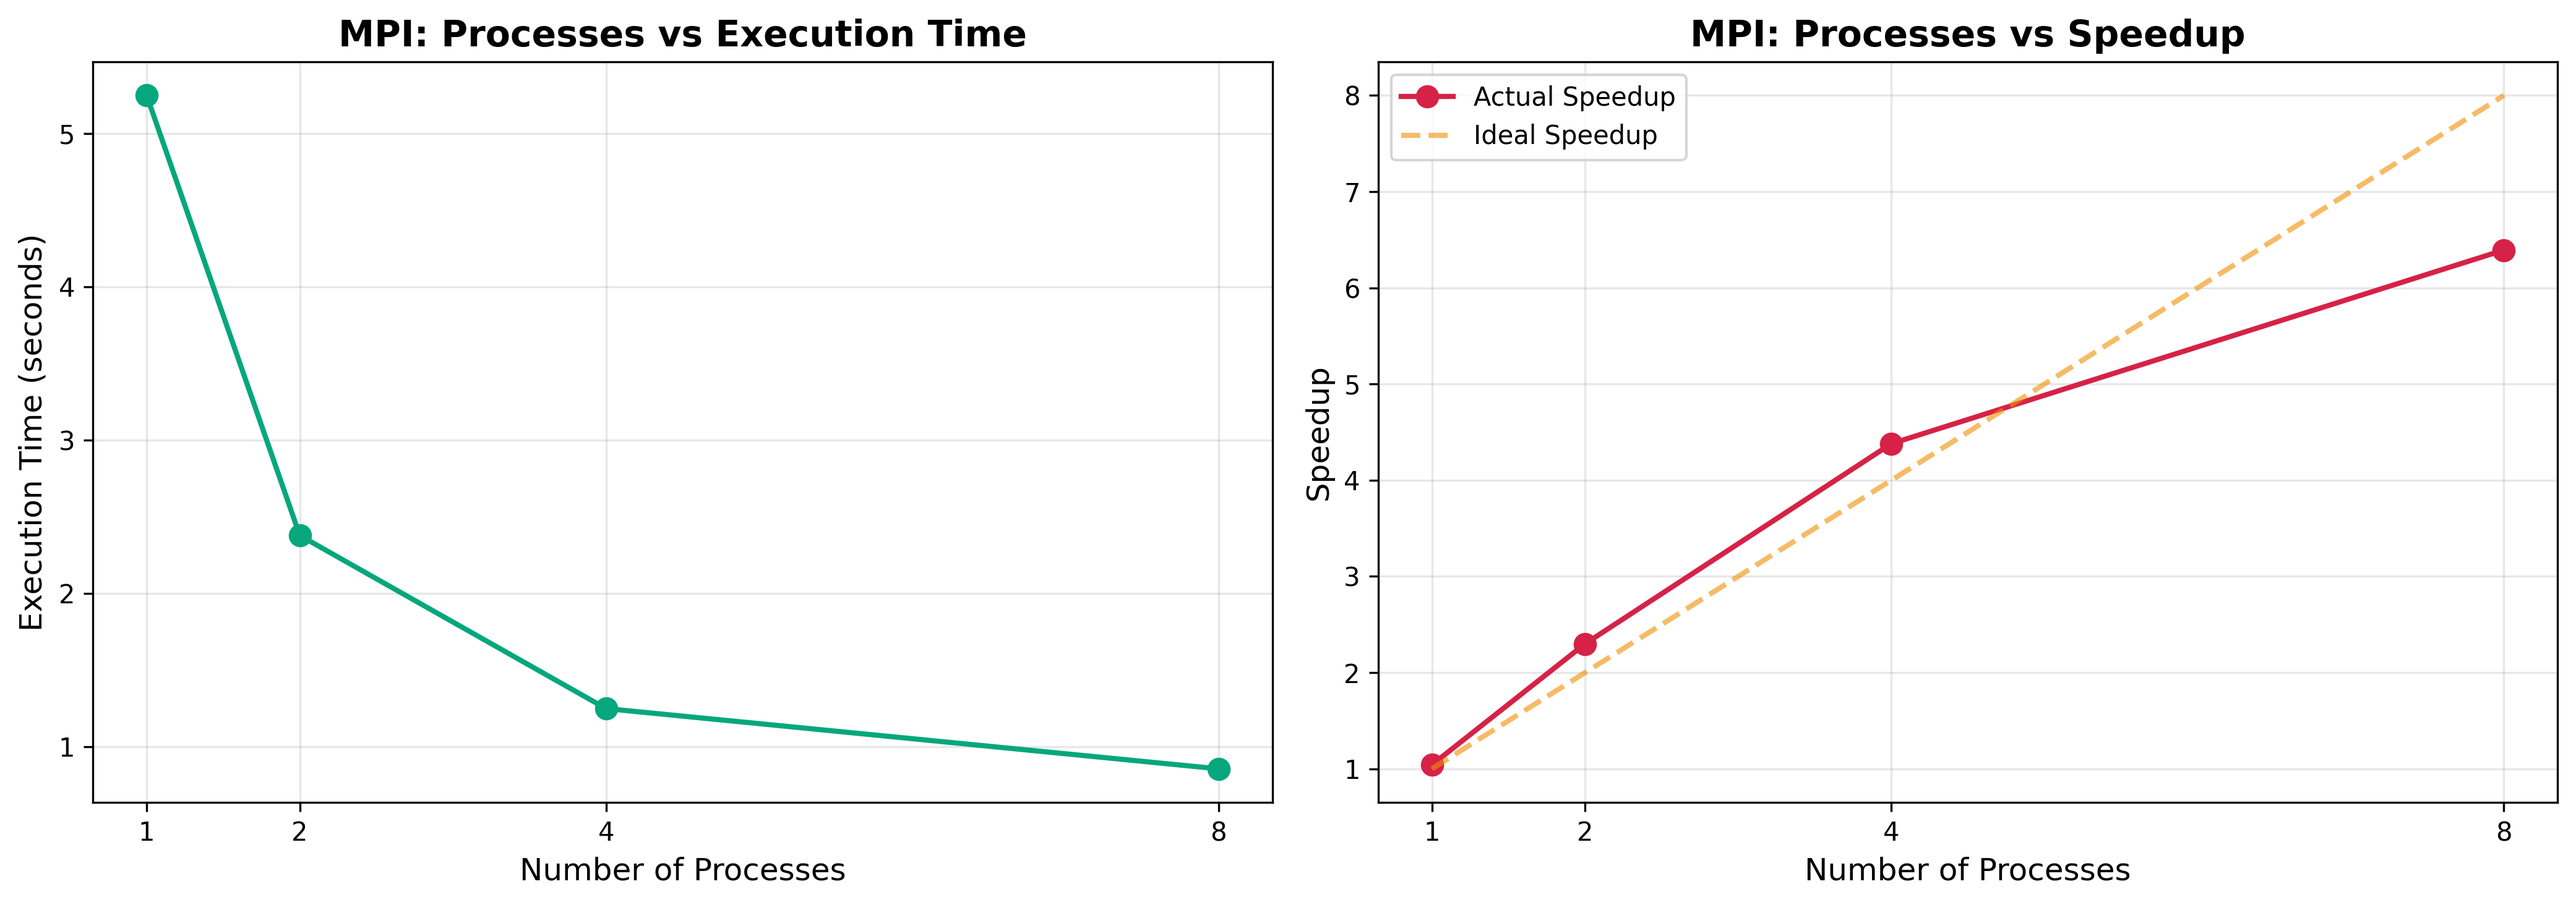
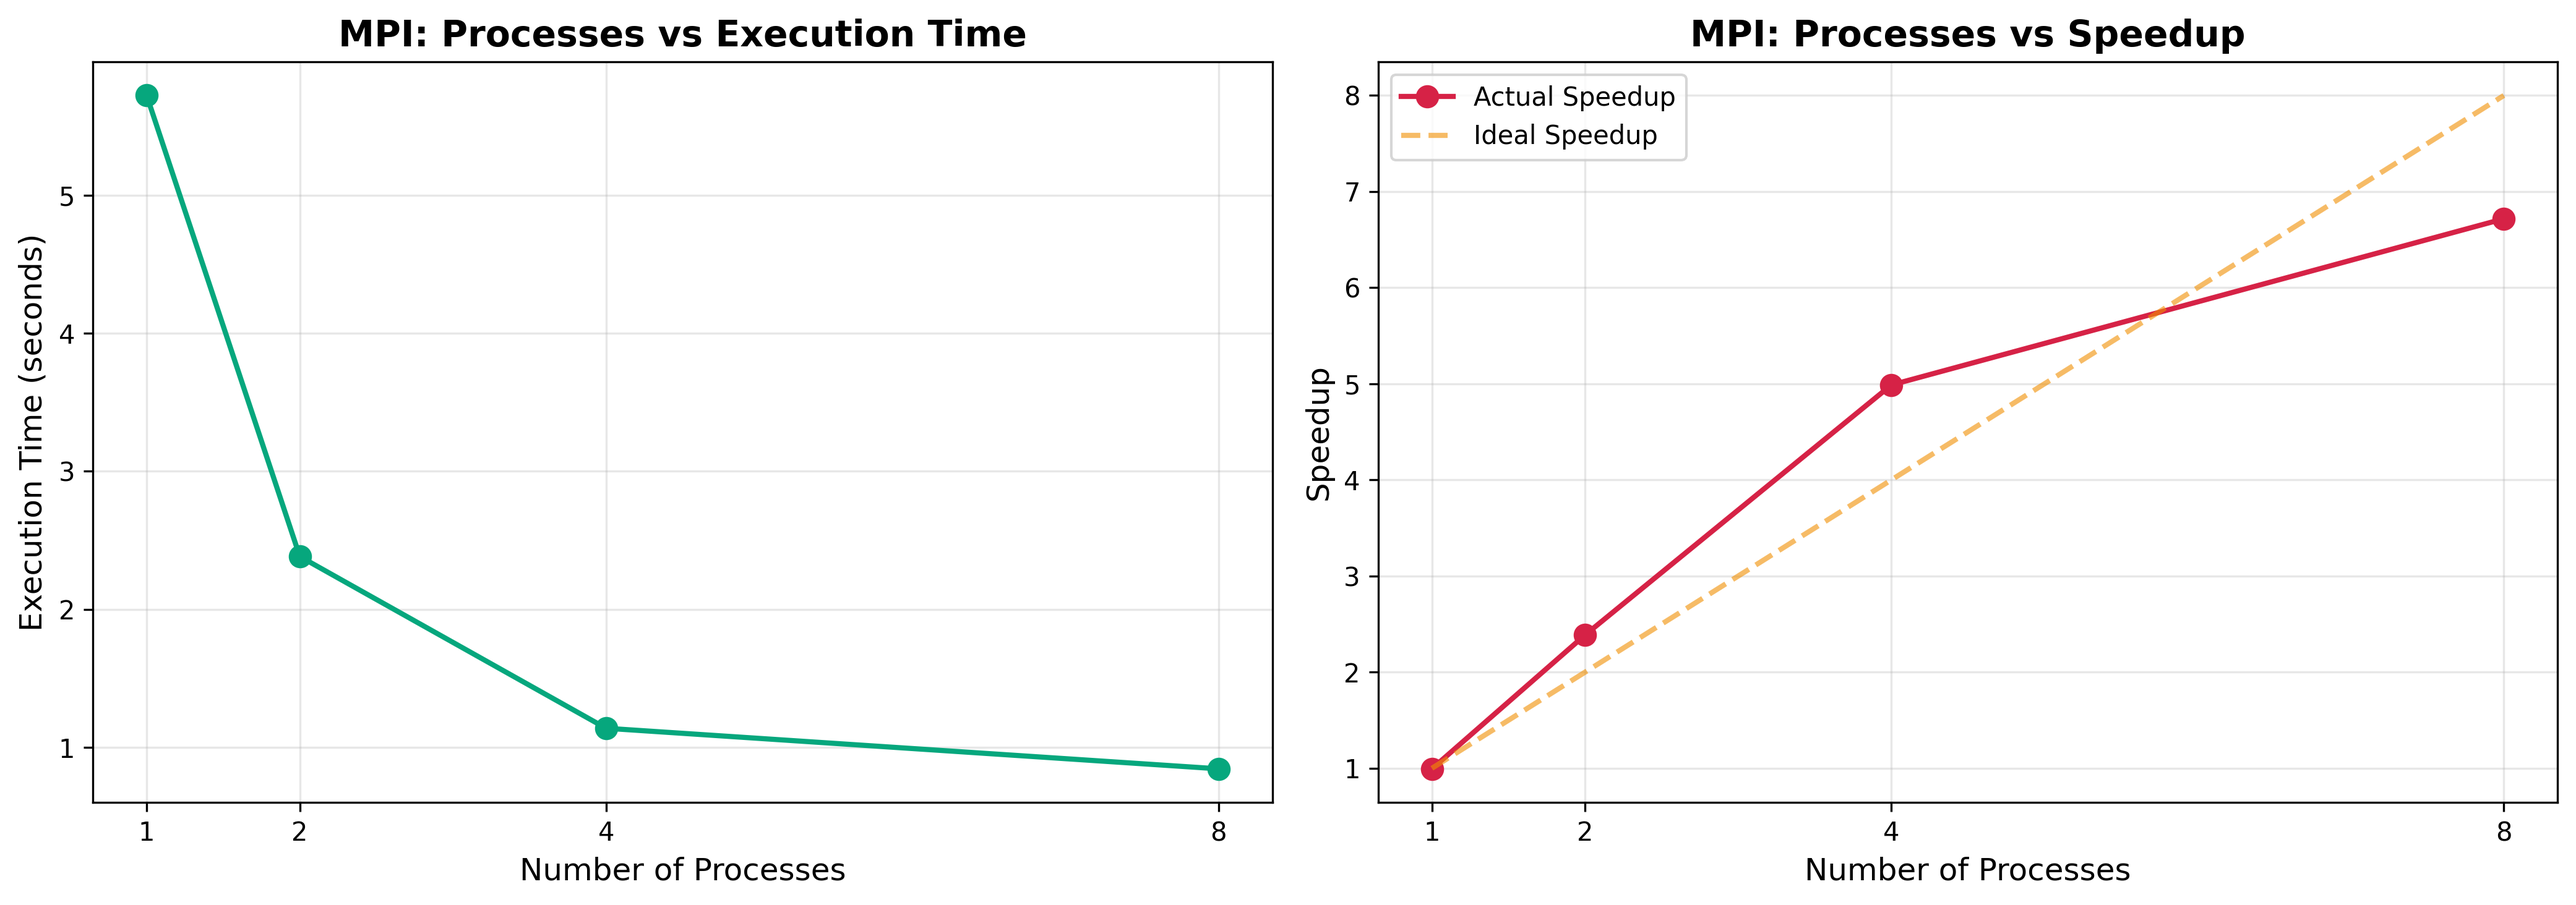
FIX :: in mpi i cant do 16 becuouse my i7 dont have 16 cores

diff --git a/evaluate_performance.py b/evaluate_performance.py
@@ -17,8 +17,8 @@ SERIAL_EXECUTABLE = "./Serial bitonic sort/Serial_Botonic_Sort"
 OPENMP_EXECUTABLE = "./OpenMP_Bitonic Sort/openMp_bitonic_sort"
 MPI_EXECUTABLE = "./MPI parallel bitonic sort/MPI_bitonic_Sort"
 
-OPENMP_THREADS = [1, 2, 4, 8, 16]
-MPI_PROCESSES = [1, 2, 4, 8, 16]
+OPENMP_THREADS = [1, 2, 4, 8]
+MPI_PROCESSES = [1, 2, 4, 8]
 
 OUTPUT_DIR = "./evaluation_results"
 
@@ -140,7 +140,7 @@ def run_openmp(threads: int) -> float:
         raise ExecutionError(f"OpenMP execution failed with {threads} threads: {e}")
 
 
-def run_mpi(processes: int) -> float:
+def run_mpi(processes: int, use_oversubscribe: bool = False) -> float:
     """Run MPI version with specified number of processes"""
     print(f"\n→ Running MPI with {processes} processes...")
     
@@ -148,8 +148,14 @@ def run_mpi(processes: int) -> float:
         raise ExecutionError(f"MPI executable not found: {MPI_EXECUTABLE}")
     
     try:
+        # Build command with optional oversubscribe flag
+        cmd = ['mpirun', '-np', str(processes)]
+        if use_oversubscribe:
+            cmd.append('--oversubscribe')
+        cmd.append(MPI_EXECUTABLE)
+        
         result = subprocess.run(
-            ['mpirun', '-np', str(processes), MPI_EXECUTABLE],
+            cmd,
             capture_output=True,
             text=True,
             timeout=300,
